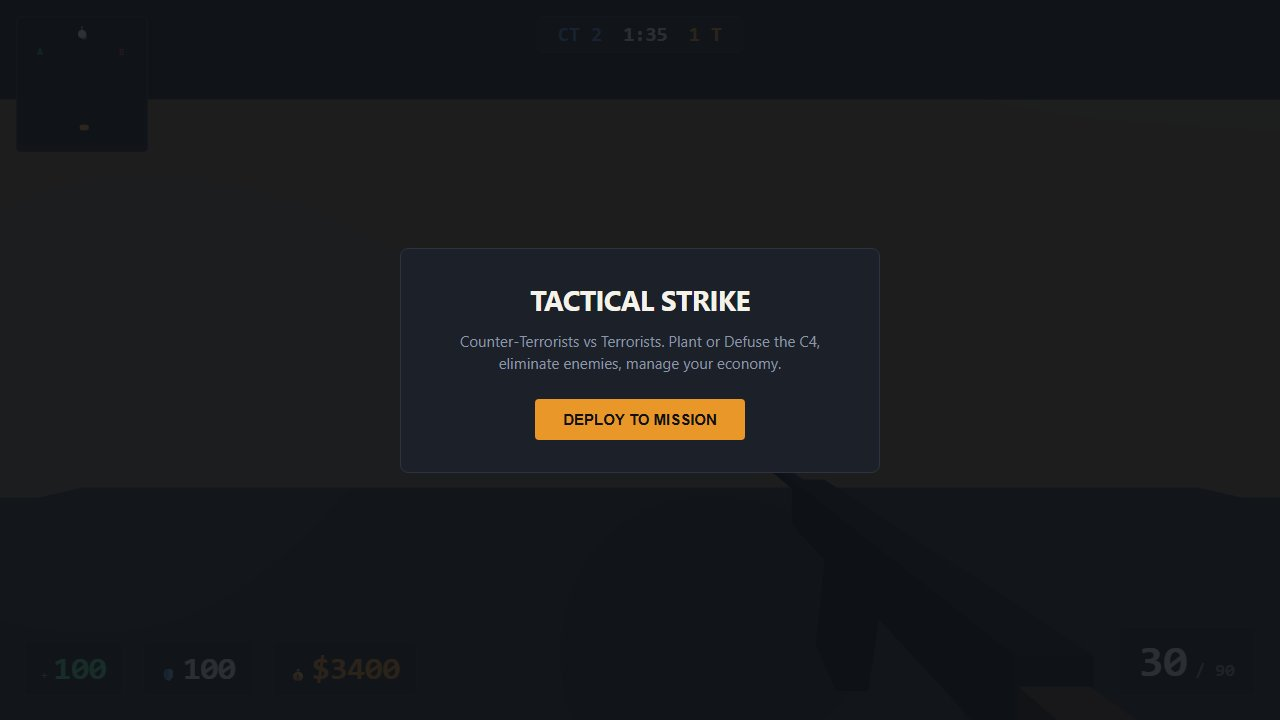
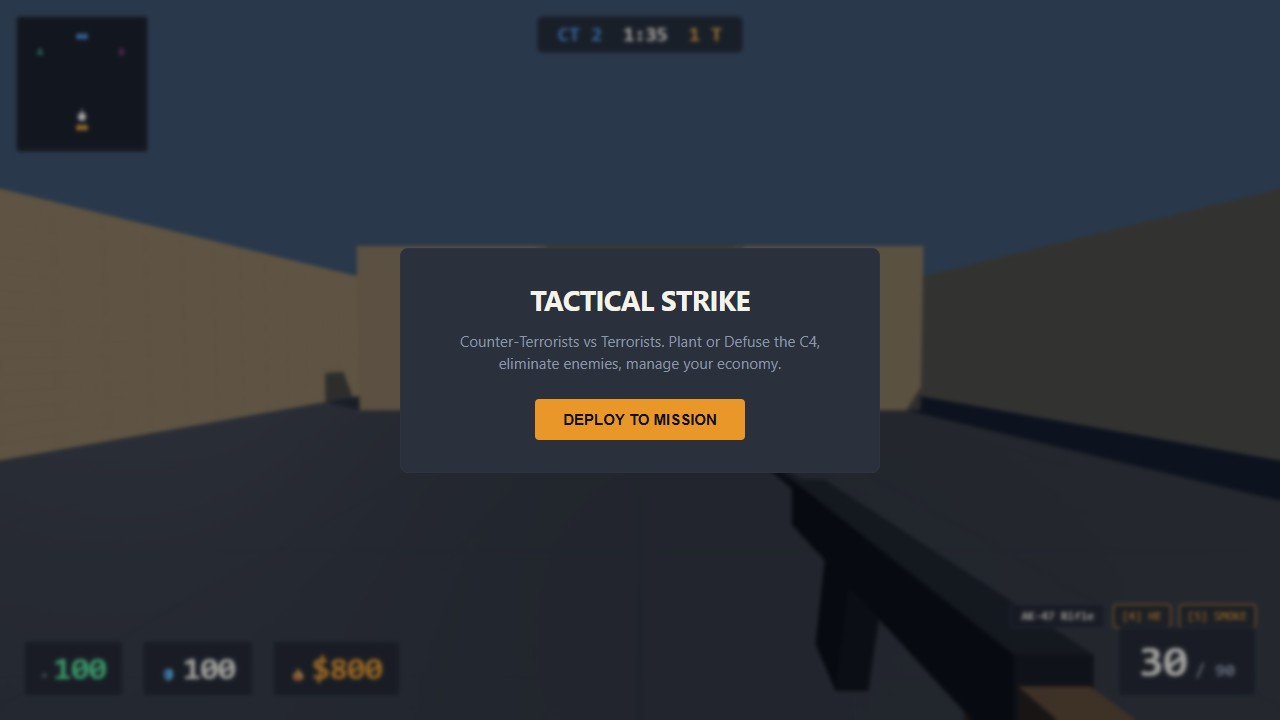
feat(fps): Mediterranean dusk lighting, volumetric smoke & 4-stage tactical screenshots

diff --git a/game/src/world.js b/game/src/world.js
@@ -17,6 +17,64 @@ export function createWorld(scene) {
     });
   }
 
+  // Subtle procedural 512x512 tile & masonry detail maps (100% offline, zero network calls)
+  function createProceduralTexture(type) {
+    const canvas = document.createElement('canvas');
+    canvas.width = 512;
+    canvas.height = 512;
+    const ctx = canvas.getContext('2d');
+    ctx.fillStyle = '#ffffff';
+    ctx.fillRect(0, 0, 512, 512);
+
+    if (type === 'surface') {
+      ctx.strokeStyle = '#d4d8dc';
+      ctx.lineWidth = 4;
+      ctx.strokeRect(2, 2, 508, 508);
+      ctx.strokeStyle = '#e6eaee';
+      ctx.lineWidth = 2;
+      ctx.beginPath();
+      ctx.moveTo(256, 0); ctx.lineTo(256, 512);
+      ctx.moveTo(0, 256); ctx.lineTo(512, 256);
+      ctx.stroke();
+    } else {
+      ctx.strokeStyle = '#ded7cd';
+      ctx.lineWidth = 3;
+      ctx.beginPath();
+      for (let y = 0; y <= 512; y += 128) {
+        ctx.moveTo(0, y); ctx.lineTo(512, y);
+      }
+      for (let y = 0; y < 512; y += 128) {
+        const offset = (y / 128) % 2 === 0 ? 0 : 128;
+        for (let x = offset; x <= 512; x += 256) {
+          ctx.moveTo(x, y); ctx.lineTo(x, y + 128);
+        }
+      }
+      ctx.stroke();
+    }
+
+    const imgData = ctx.getImageData(0, 0, 512, 512);
+    const data = imgData.data;
+    let seedVal = type === 'surface' ? 1337 : 4242;
+    for (let i = 0; i < data.length; i += 4) {
+      seedVal = (seedVal * 16807 + 7) % 2147483647;
+      const noise = ((seedVal % 100) / 100 - 0.5) * 14;
+      data[i] = Math.min(255, Math.max(0, data[i] + noise));
+      data[i + 1] = Math.min(255, Math.max(0, data[i + 1] + noise));
+      data[i + 2] = Math.min(255, Math.max(0, data[i + 2] + noise));
+    }
+    ctx.putImageData(imgData, 0, 0);
+
+    const tex = new THREE.CanvasTexture(canvas);
+    tex.wrapS = THREE.RepeatWrapping;
+    tex.wrapT = THREE.RepeatWrapping;
+    tex.repeat.set(type === 'surface' ? 16 : 8, type === 'surface' ? 16 : 4);
+    return tex;
+  }
+
+  materials.surface.map = createProceduralTexture('surface');
+  materials.sand.map = createProceduralTexture('sand');
+  materials.darkSand.map = materials.sand.map;
+
   const colliders = [];
   const shootables = [];
 
@@ -37,14 +95,14 @@ export function createWorld(scene) {
     const ringMat = new THREE.MeshBasicMaterial({ color: colorHex, side: THREE.DoubleSide });
     const ring = new THREE.Mesh(ringGeo, ringMat);
     ring.rotation.x = -Math.PI / 2;
-    ring.position.set(x, 0.03, z);
+    ring.position.set(x, 0.47, z);
     group.add(ring);
 
     // Center pulsating beacon pillar
-    const beaconGeo = new THREE.CylinderGeometry(0.08, 0.08, 3.5, 12);
-    const beaconMat = new THREE.MeshBasicMaterial({ color: colorHex, transparent: true, opacity: 0.75 });
+    const beaconGeo = new THREE.CylinderGeometry(0.04, 0.04, 3.2, 12);
+    const beaconMat = new THREE.MeshBasicMaterial({ color: colorHex, transparent: true, opacity: 0.45 });
     const beacon = new THREE.Mesh(beaconGeo, beaconMat);
-    beacon.position.set(x, 1.75, z);
+    beacon.position.set(x, 2.05, z);
     group.add(beacon);
 
     return { x, z, radius, label };
@@ -122,7 +180,7 @@ export function createWorld(scene) {
 
   // --- Lighting & Atmosphere ---
   // Warm golden sun key light with crisp soft shadows
-  const sun = new THREE.DirectionalLight(new THREE.Color(PALETTE.ink), 2.2);
+  const sun = new THREE.DirectionalLight(new THREE.Color(0xfff1d6), 2.7);
   sun.position.set(16, 26, 14);
   sun.target.position.set(0, 0, 0);
   sun.castShadow = true;
@@ -137,7 +195,7 @@ export function createWorld(scene) {
   scene.add(sun, sun.target);
 
   // Cool sky hemisphere ambient fill
-  const ambient = new THREE.HemisphereLight(new THREE.Color(PALETTE.sand), new THREE.Color(PALETTE.canvas), 0.95);
+  const ambient = new THREE.HemisphereLight(new THREE.Color(0x9bc4f2), new THREE.Color(0x7a654a), 1.15);
   scene.add(ambient);
 
   // Secondary tactical fill light

diff --git a/game/src/main.js b/game/src/main.js
@@ -399,33 +399,75 @@ function runShot(name) {
   player.state.yaw = 0;
 
   if (name === 'play') {
-    player.state.position.set(-2.5, 0, 4.0);
-    player.state.yaw = Math.PI * 0.95;
-    player.state.pitch = -0.05;
+    player.state.position.set(-15.5, 0, 1.5);
+    player.state.yaw = 0.08;
+    player.state.pitch = -0.02;
+    weapon.give('heGrenade');
+    weapon.give('smokeGrenade');
     weapon.give('ak47');
-    grenades.spawnSmokeAt(new THREE.Vector3(-4.0, 0, -4.5), 2.4);
-    settle(25);
+    grenades.spawnSmokeAt(new THREE.Vector3(-18.2, 0, -9.2), 2.8);
+    syncCamera();
     shoot();
+    if (bots && bots.items) {
+      if (bots.items[0]) {
+        bots.items[0].position.set(-14.6, 0.45, -11.5);
+        bots.items[0].yaw = 0;
+        bots.items[0].group.rotation.y = 0;
+        bots.items[0].alive = true;
+        bots.items[0].group.visible = true;
+        bots.items[0].health = 100;
+      }
+      if (bots.items[1]) {
+        const dx = player.state.position.x - (-17.0);
+        const dz = player.state.position.z - (-13.5);
+        const yawToPlayer = Math.atan2(-dx, -dz);
+        bots.items[1].position.set(-17.0, 0.45, -13.5);
+        bots.items[1].yaw = yawToPlayer;
+        bots.items[1].group.rotation.y = yawToPlayer;
+        bots.items[1].alive = true;
+        bots.items[1].group.visible = true;
+        bots.items[1].health = 100;
+      }
+    }
+    hud.hitMarker(true, 5000);
     hud.pushKillfeed('Player', 'Anarchist', true);
-  } else if (name === 'end') {
-    player.state.position.set(-16.0, 0.45, -11.0);
-    player.state.yaw = -0.4;
-    weapon.give('awp');
-    settle(40);
-    hud.showObjective('BOMB PLANTED - DEFEND THE SITE');
-    hud.pushKillfeed('Player', 'Phoenix', false);
-    hud.showOverlay('end', 1500);
-  } else {
-    player.state.position.set(0, 0.3, -20);
-    player.state.yaw = 0;
+    hud.showObjective('CONTEST BOMB SITE A');
+    economy.money = 3400;
+    hud.setMoney(3400);
+  } else if (name === 'buy') {
+    player.state.position.set(0, 0.3, -15.5);
+    player.state.yaw = Math.PI;
+    player.state.pitch = -0.04;
     weapon.give('ak47');
-    settle(10);
+    syncCamera();
+    economy.money = 3950;
+    hud.setMoney(3950);
+    hud.toggleBuyMenu(true, null, economy);
+  } else if (name === 'end') {
+    player.state.position.set(-11.2, 0.45, -8.0);
+    player.state.yaw = 0.65;
+    player.state.pitch = -0.06;
+    weapon.give('awp');
+    syncCamera();
+    hud.showObjective('COUNTER-TERRORISTS WIN — C4 DEFUSED');
+    hud.pushKillfeed('Player', 'Phoenix', true);
+    hud.showOverlay('end', 1500);
+    economy.money = 4850;
+    hud.setMoney(4850);
+  } else {
+    // start
+    player.state.position.set(0, 0.3, 14.5);
+    player.state.yaw = 0;
+    player.state.pitch = -0.03;
+    weapon.give('ak47');
+    syncCamera();
     hud.showOverlay('start', 0);
+    economy.money = 800;
+    hud.setMoney(800);
   }
 
   hud.setScores(2, 1, 95, 2, 1);
   syncHudLoadout();
-  hud.setMoney(3400);
 
   let painted = 0;
   function paint() {

diff --git a/game/src/weapon.js b/game/src/weapon.js
@@ -52,7 +52,7 @@ export function createWeapon(camera) {
   const gunMetalMat = new THREE.MeshStandardMaterial({ color: new THREE.Color(PALETTE.metal), metalness: 0.8, roughness: 0.35 });
   const gunWoodMat = new THREE.MeshStandardMaterial({ color: new THREE.Color(PALETTE.crate), roughness: 0.75 });
   const polymerMat = new THREE.MeshStandardMaterial({ color: 0x23272e, roughness: 0.6 });
-  const flashMat = new THREE.MeshBasicMaterial({ color: new THREE.Color(PALETTE.accent), transparent: true, opacity: 0 });
+  const flashMat = new THREE.MeshBasicMaterial({ color: 0xffde7a, transparent: true, opacity: 0 });
 
   const weaponMeshes = {};
   function part(geo, mat, x = 0, y = 0, z = 0, rx = 0) {
@@ -105,8 +105,8 @@ export function createWeapon(camera) {
     addMesh(id, [part(grenadeBody, new THREE.MeshStandardMaterial({ color, roughness: 0.5 })), pin], 0.22, -0.20, -0.40);
   }
 
-  const flashMesh = new THREE.Mesh(new THREE.OctahedronGeometry(0.06, 0), flashMat);
-  flashMesh.position.set(0.26, -0.18, -0.92);
+  const flashMesh = new THREE.Mesh(new THREE.OctahedronGeometry(0.032, 0), flashMat);
+  flashMesh.position.set(0.26, -0.20, -0.86);
   group.add(flashMesh);
 
   // Ammunition per weapon and the set of weapons the player owns this life.

diff --git a/game/index.html b/game/index.html
@@ -6,8 +6,8 @@
 <title>Tactical Strike: 3D Tactical FPS</title>
 <style>
   :root {
-    --canvas: #101318;
-    --surface: #1c2028;
+    --canvas: #384e68;
+    --surface: #2b313c;
     --hairline: #2d3340;
     --ink: #f5f2ea;
     --muted: #8b96a7;
@@ -211,7 +211,8 @@
     inset: 0;
     display: grid;
     place-items: center;
-    background: rgba(16, 19, 24, 0.88);
+    background: rgba(14, 18, 26, 0.36);
+    backdrop-filter: blur(2px);
   }
   .overlay[hidden] { display: none; }
   .panel {
@@ -241,7 +242,7 @@
     inset: 0;
     display: none;
     place-items: center;
-    background: rgba(16, 19, 24, 0.85);
+    background: rgba(14, 18, 26, 0.42);
     z-index: 100;
   }
   .buy-grid {

diff --git a/game/src/palette.js b/game/src/palette.js
@@ -2,8 +2,8 @@
 // Clean, readable, high-contrast palette for three.js materials and tactical HUD.
 
 export const PALETTE = {
-  canvas: '#101318',      // Deep night sky / distant horizon
-  surface: '#1c2028',     // Ground foundation & concrete slabs
+  canvas: '#384e68',      // Clear dusk Mediterranean sky so sandstone architecture has strong horizon contrast
+  surface: '#2b313c',     // Ground foundation & concrete slabs
   hairline: '#2d3340',    // Trim & borders
   sand: '#c4ad86',        // Warm sandstone walls and main buildings
   darkSand: '#8a7657',    // Shaded sandstone & alley recesses

diff --git a/game/src/grenade.js b/game/src/grenade.js
@@ -182,7 +182,7 @@ export function createGrenades(scene, colliders, audio, onNoise) {
     const eased = 1 - (1 - grow) * (1 - grow);
     cloud.radius = SMOKE.radius * eased;
     const fade = cloud.age > SMOKE.fadeFrom ? 1 - (cloud.age - SMOKE.fadeFrom) / (SMOKE.life - SMOKE.fadeFrom) : 1;
-    cloud.material.opacity = 0.93 * fade;
+    cloud.material.opacity = 0.45 * fade;
     const drift = cloud.age * 0.35;
     for (let i = 0; i < cloud.puffs.length; i += 1) {
       const puff = cloud.puffs[i];

diff --git a/game/src/economy.js b/game/src/economy.js
@@ -23,6 +23,8 @@ export function createEconomy() {
 
   return {
     get money() { return playerMoney; },
+    set money(m) { playerMoney = clamp(m); },
+    set(amount) { playerMoney = clamp(amount); return playerMoney; },
     add(amount) {
       playerMoney = clamp(playerMoney + amount);
       return playerMoney;
